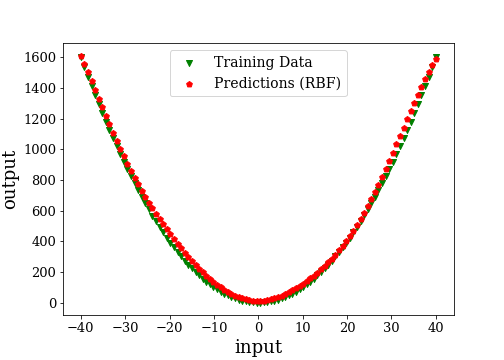
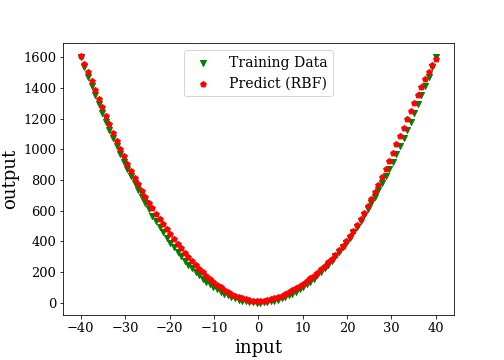
Tiny changes

Changed region(s): [[0.3571, 0.1528, 0.6845, 0.275], [0.6548, 0.1222, 0.6845, 0.1528], [0.3274, 0.2444, 0.3571, 0.275]]

diff --git a/Chapter6.py b/Chapter6.py
@@ -80,7 +80,7 @@ for j in np.linspace(-a,a,size):
 fig = plt.figure()
 plt.xlabel('input')
 plt.ylabel("output")
-plt.scatter(listex, listey, marker='v',color='g', label="Training")     #size of point
+plt.scatter(listex, listey, marker='v',color='g', label="Training Data")     #size of point
 plt.scatter(np.linspace(-a,a,size), np.array(preds_rbf), marker='p', color='r', label="Predict (RBF)")
 plt.legend()
 plt.show();
@@ -110,7 +110,7 @@ fig = plt.figure()
 plt.xlabel('input')
 plt.ylabel("output")
 plt.scatter(listex, listey, marker='v',color='g', label="Training Data")     #size of point
-plt.scatter(x_test, preds_rbf2, marker='p', color='r', label="Predictions (RBF)")
+plt.scatter(x_test, preds_rbf2, marker='p', color='r', label="Predict (RBF)")
 plt.legend()
 plt.show();
 fig.savefig("images/NN_after_scale.png");
